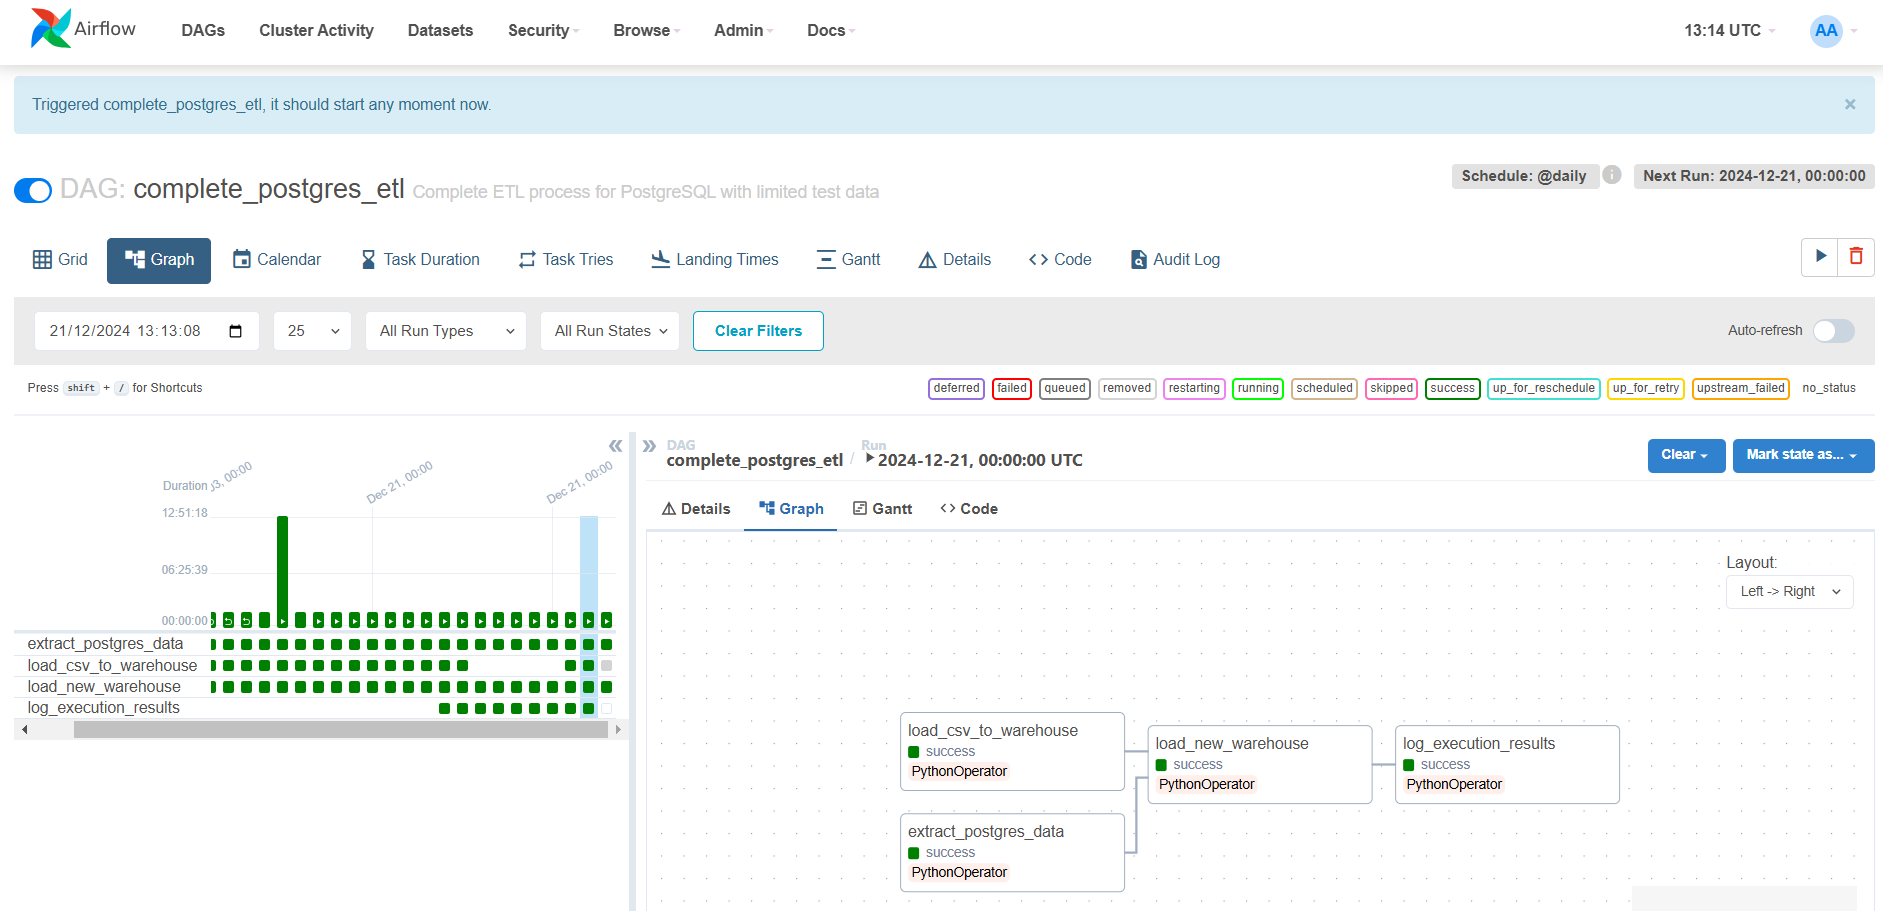
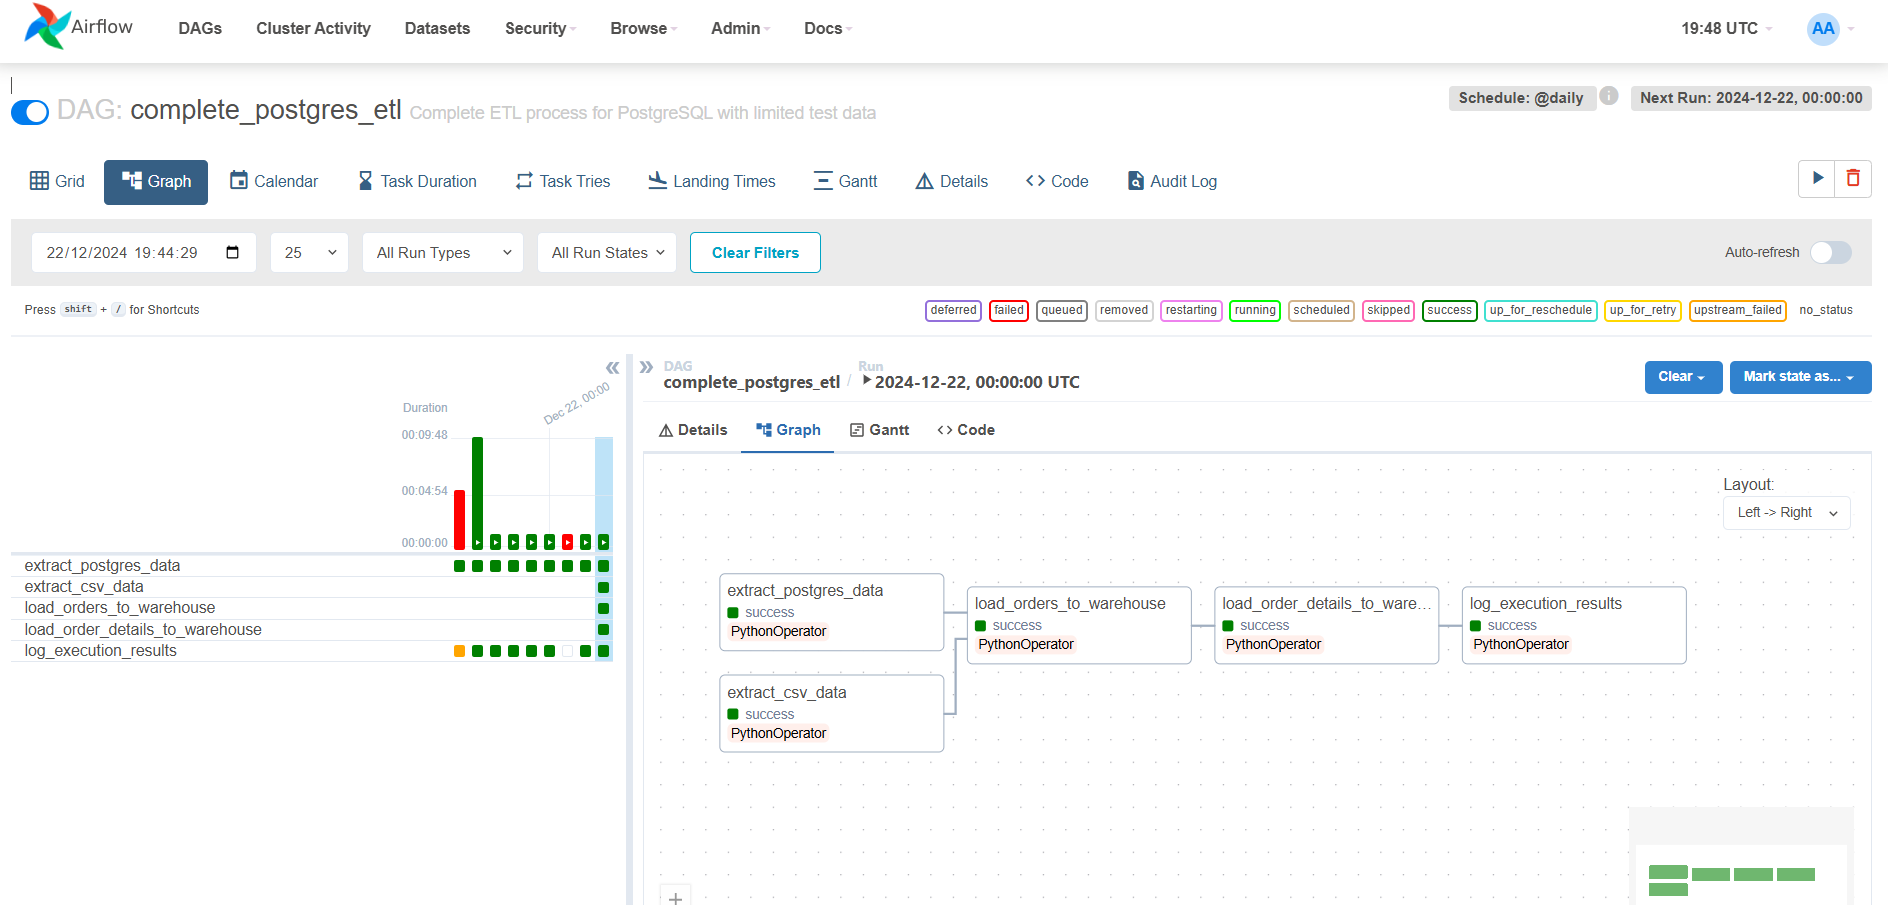
feat: new dag name

diff --git a/project/dags/etl.py b/project/dags/etl.py
@@ -207,7 +207,7 @@ def log_execution_results(execution_date):
 
 # Define the DAG
 with DAG(
-    'complete_postgres_etl',
+    'indicium_challenge_etl',
     default_args={
         'owner': 'airflow',
         'start_date': days_ago(1),

diff --git a/README.md b/README.md
@@ -71,7 +71,7 @@ The Airflow CLI is not available through the UI. It must be accessed via the ter
    docker exec -it [your-airflow-container-name] bash
 2. Run the command:
     ```bash
-    airflow dags backfill -s 2024-01-01 -e 2024-01-05 complete_postgres_etl bash
+    airflow dags backfill -s 2024-01-01 -e 2024-01-05 indicium_challenge_etl bash
 ### 7. How to Reprocess Data with a Date Range in the Airflow UI:
 
 1. Open your DAG in the Airflow UI.
